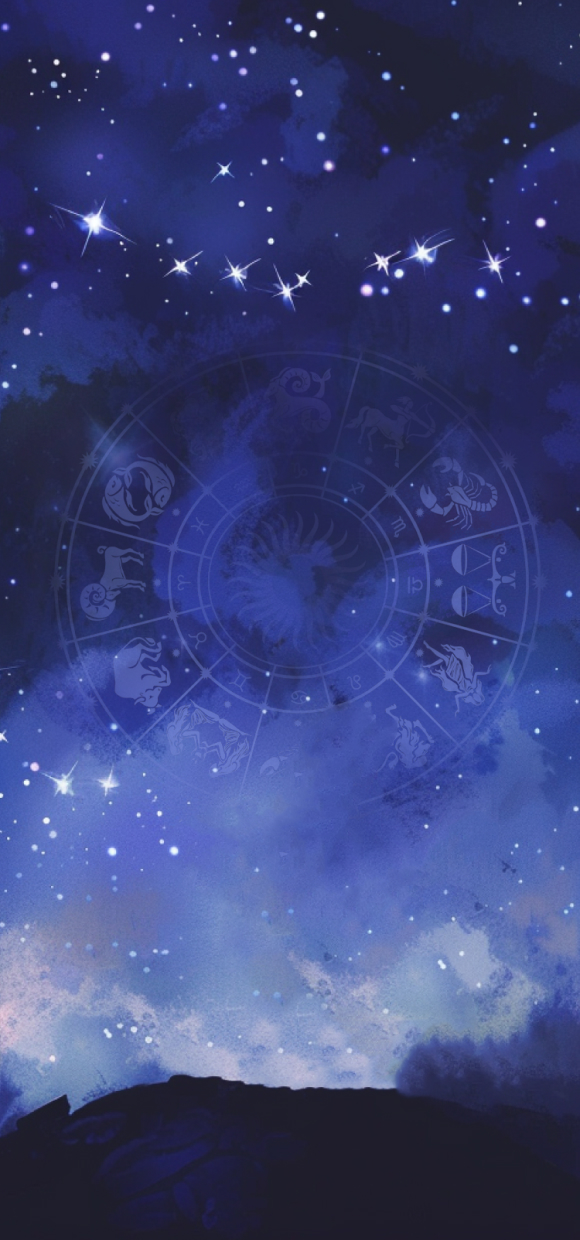
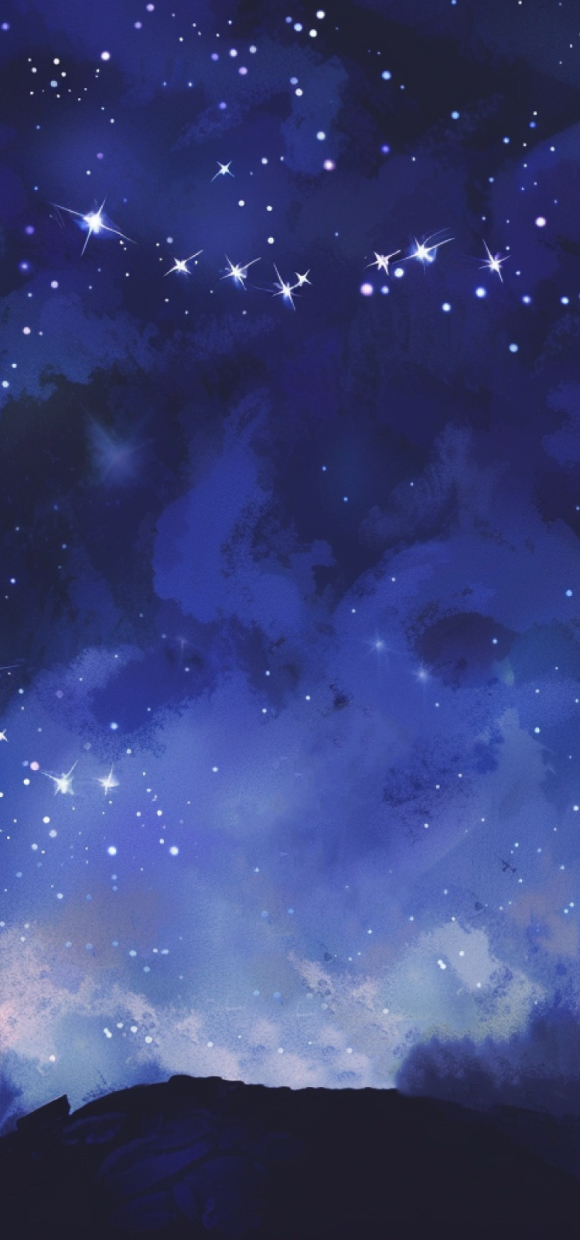
feat: added excellent section

diff --git a/css/index.css b/css/index.css
@@ -217,3 +217,90 @@ img {
   background: url(../assets/refresh.svg) center no-repeat;
   background-size: contain;
 }
+
+@keyframes rotateForward {
+  0% {
+    transform: rotate(0deg);
+  }
+  100% {
+    transform: rotate(360deg);
+  }
+}
+@keyframes rotateBack {
+  0% {
+    transform: rotate(0deg);
+  }
+  100% {
+    transform: rotate(-360deg);
+  }
+}
+.excellent {
+  display: flex;
+  flex-direction: column;
+  padding-top: 56px;
+}
+.excellent__title {
+  margin: 0 0 6px;
+  font-weight: 600;
+  font-size: 34px;
+  line-height: 130%;
+  text-align: center;
+  color: #fff;
+}
+.excellent__description {
+  margin: 0 0 46px;
+  font-weight: 500;
+  font-size: 15px;
+  line-height: 130%;
+  text-align: center;
+  color: #fff;
+}
+.excellent__horoscope {
+  position: relative;
+  display: flex;
+  justify-content: center;
+  align-items: center;
+}
+.excellent__horoscope-outter {
+  width: 100%;
+  aspect-ratio: 1/1;
+  background: url(../assets/horo-outter.png) center no-repeat;
+  background-size: contain;
+  animation: rotateForward 60s infinite linear;
+}
+.excellent__horoscope-inner {
+  position: absolute;
+  width: 28.1978%;
+  aspect-ratio: 1/1;
+  background: url(../assets/horo-inner.png) center no-repeat;
+  background-size: contain;
+  animation: rotateBack 60s infinite linear;
+}
+.excellent__buttons {
+  flex: 1 1 auto;
+  display: flex;
+  align-items: flex-end;
+  justify-content: center;
+}
+.excellent__button {
+  display: inline-block;
+  padding: 14px 48px;
+  font-weight: 600;
+  font-size: 16px;
+  line-height: 21px;
+  color: #fff;
+  border: none;
+  border-radius: 48px;
+  -webkit-backdrop-filter: blur(6px);
+          backdrop-filter: blur(6px);
+  background: rgba(255, 255, 255, 0.05);
+  transition: transform ease-in-out 0.12s;
+  will-change: transform;
+  cursor: pointer;
+}
+.excellent__button:hover {
+  transform: scale(1.06);
+}
+.excellent__button:active {
+  transform: scale(1);
+}

diff --git a/scss/_l-excellent.scss b/scss/_l-excellent.scss
@@ -1,0 +1,96 @@
+@keyframes rotateForward {
+  0% {
+    transform: rotate(0deg);
+  }
+  100% {
+    transform: rotate(360deg);
+  }
+}
+
+@keyframes rotateBack {
+  0% {
+    transform: rotate(0deg);
+  }
+  100% {
+    transform: rotate(-360deg);
+  }
+}
+
+.excellent {
+  display: flex;
+  flex-direction: column;
+  padding-top: 56px;
+
+  &__title {
+    margin: 0 0 6px;
+    font-weight: 600;
+    font-size: 34px;
+    line-height: 130%;
+    text-align: center;
+    color: #fff;
+  }
+
+  &__description {
+    margin: 0 0 46px;
+    font-weight: 500;
+    font-size: 15px;
+    line-height: 130%;
+    text-align: center;
+    color: #fff;
+  }
+
+  &__horoscope {
+    position: relative;
+    display: flex;
+    justify-content: center;
+    align-items: center;
+
+    &-outter {
+      width: 100%;
+      aspect-ratio: 1 / 1;
+      background: url(../assets/horo-outter.png) center no-repeat;
+      background-size: contain;
+      animation: rotateForward 60s infinite linear;
+    }
+
+    &-inner {
+      position: absolute;
+      width: 28.1978%;
+      aspect-ratio: 1 / 1;
+      background: url(../assets/horo-inner.png) center no-repeat;
+      background-size: contain;
+      animation: rotateBack 60s infinite linear;
+    }
+  }
+
+  &__buttons {
+    flex: 1 1 auto;
+    display: flex;
+    align-items: flex-end;
+    justify-content: center;
+  }
+
+  &__button {
+    display: inline-block;
+    padding: 14px 48px;
+    font-weight: 600;
+    font-size: 16px;
+    line-height: 21px;
+    color: #fff;
+    border: none;
+    border-radius: 48px;
+    backdrop-filter: blur(6px);
+    background: rgba(255, 255, 255, 0.05);
+    transition: transform ease-in-out 0.12s;
+    will-change: transform;
+    cursor: pointer;
+
+    &:hover {
+      transform: scale(1.06);
+    }
+
+    &:active {
+      transform: scale(1);
+    }
+  }
+}

diff --git a/index.html b/index.html
@@ -19,7 +19,7 @@
       </header>
 
       <main class="main">
-        <section class="first-screen" id="firstScreen">
+        <section class="first-screen hidden" id="firstScreen">
           <div class="controls-top">
             <button class="controls-top__button controls-top__button_auth"></button>
             <button class="controls-top__button controls-top__button_refresh">3</button>
@@ -39,6 +39,18 @@
             >
               Гороскоп
             </button>
+          </div>
+        </section>
+
+        <section class="excellent">
+          <h3 class="excellent__title">Отлично!</h3>
+          <p class="excellent__description">Ваш запрос обрабатывается</p>
+          <div class="excellent__horoscope">
+            <div class="excellent__horoscope-outter"></div>
+            <div class="excellent__horoscope-inner"></div>
+          </div>
+          <div class="excellent__buttons">
+            <button class="excellent__button">Закрыть</button>
           </div>
         </section>
       </main>

diff --git a/scss/index.scss b/scss/index.scss
@@ -17,3 +17,4 @@
 @import './l-footer';
 @import './l-first-screen';
 @import './l-controls-top';
+@import './l-excellent';
